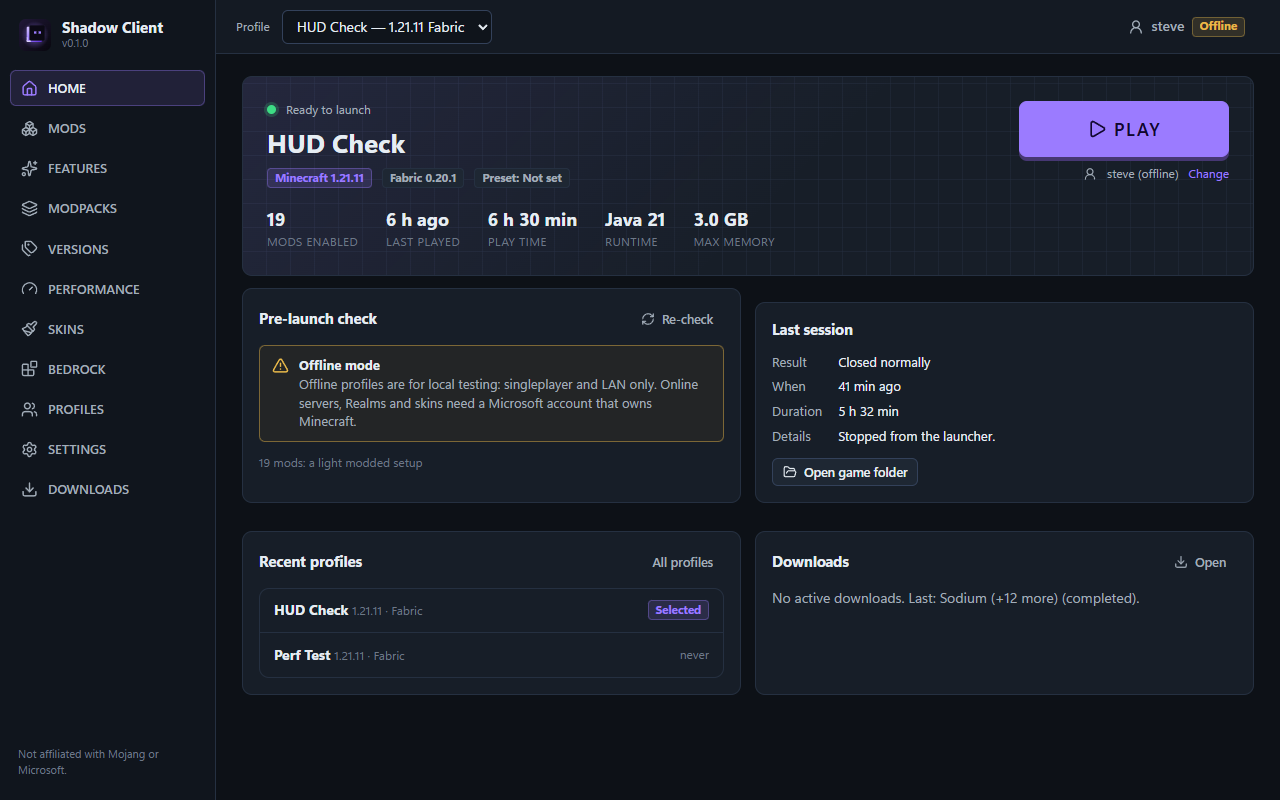
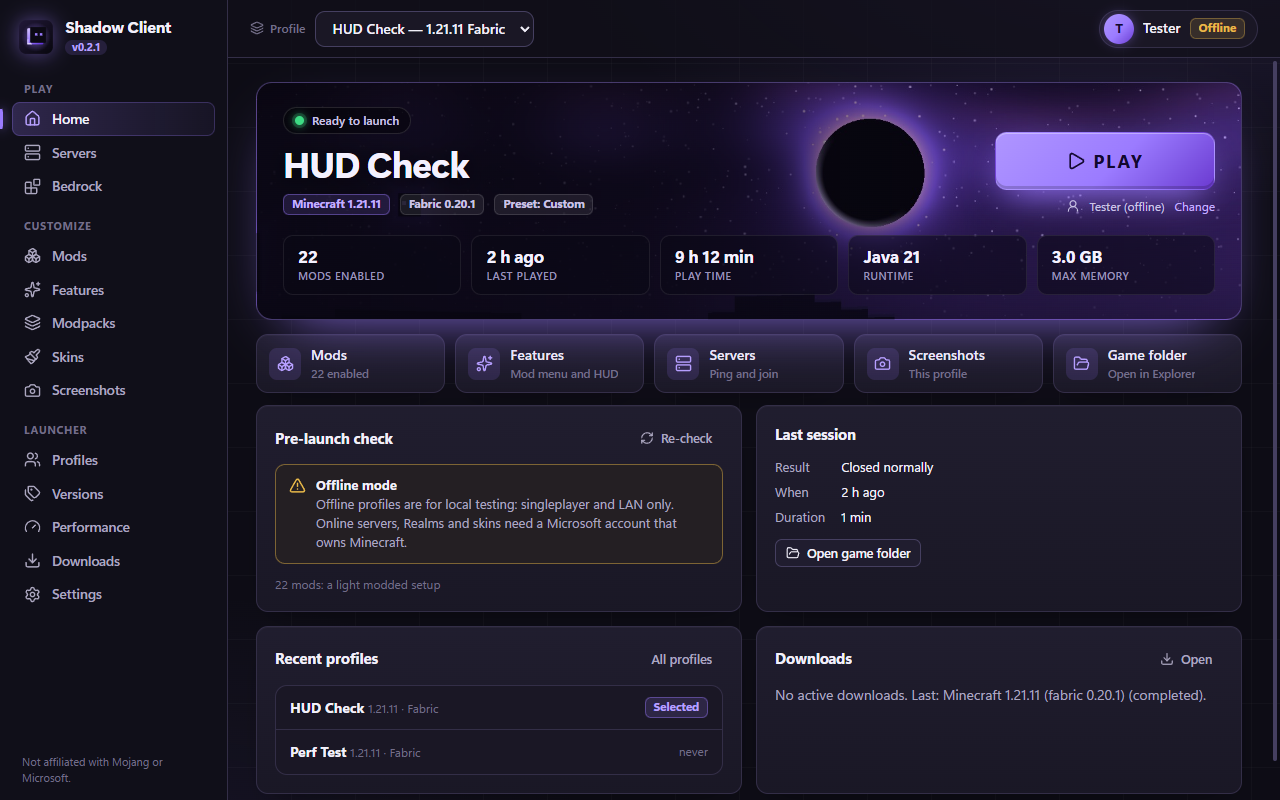
Shadow Client 0.2.1 on the website
0.2.1 changelog, new-look screenshots, and the 0.2.1 download sizes
and checksums.

diff --git a/index.html b/index.html
@@ -222,6 +222,16 @@
       <h2>What's new</h2>
       <div class="changelog">
         <article>
+          <h3>Shadow Client 0.2.1 <span>November 1, 2026</span></h3>
+          <ul>
+            <li><strong>A new look:</strong> the launcher now matches this site, with a deep purple-black theme, glowing buttons and rounded cards. It follows your accent colour, and the light theme is updated too.</li>
+            <li><strong>Home:</strong> the Shadow background behind your profile, a bigger PLAY button, stat tiles and quick links to Mods, Features, Servers, Screenshots and the game folder.</li>
+            <li>A sidebar grouped into Play, Customize and Launcher, pill-style tabs and an account chip in the top bar.</li>
+            <li><strong>Open official launcher</strong> now adds your profile and its mods to the official Minecraft Launcher, so you can play it there with your Microsoft account.</li>
+            <li>Fixed: a profile added to the official launcher could fail with "Unable to prepare assets for download". Using Open official launcher again repairs it.</li>
+          </ul>
+        </article>
+        <article>
           <h3>Shadow Client 0.2.0 <span>October 31, 2026</span></h3>
           <ul>
             <li><strong>Servers page:</strong> live status (players, ping, version, MOTD) for Java and Bedrock servers, and a Join button that starts the game straight into the server.</li>
